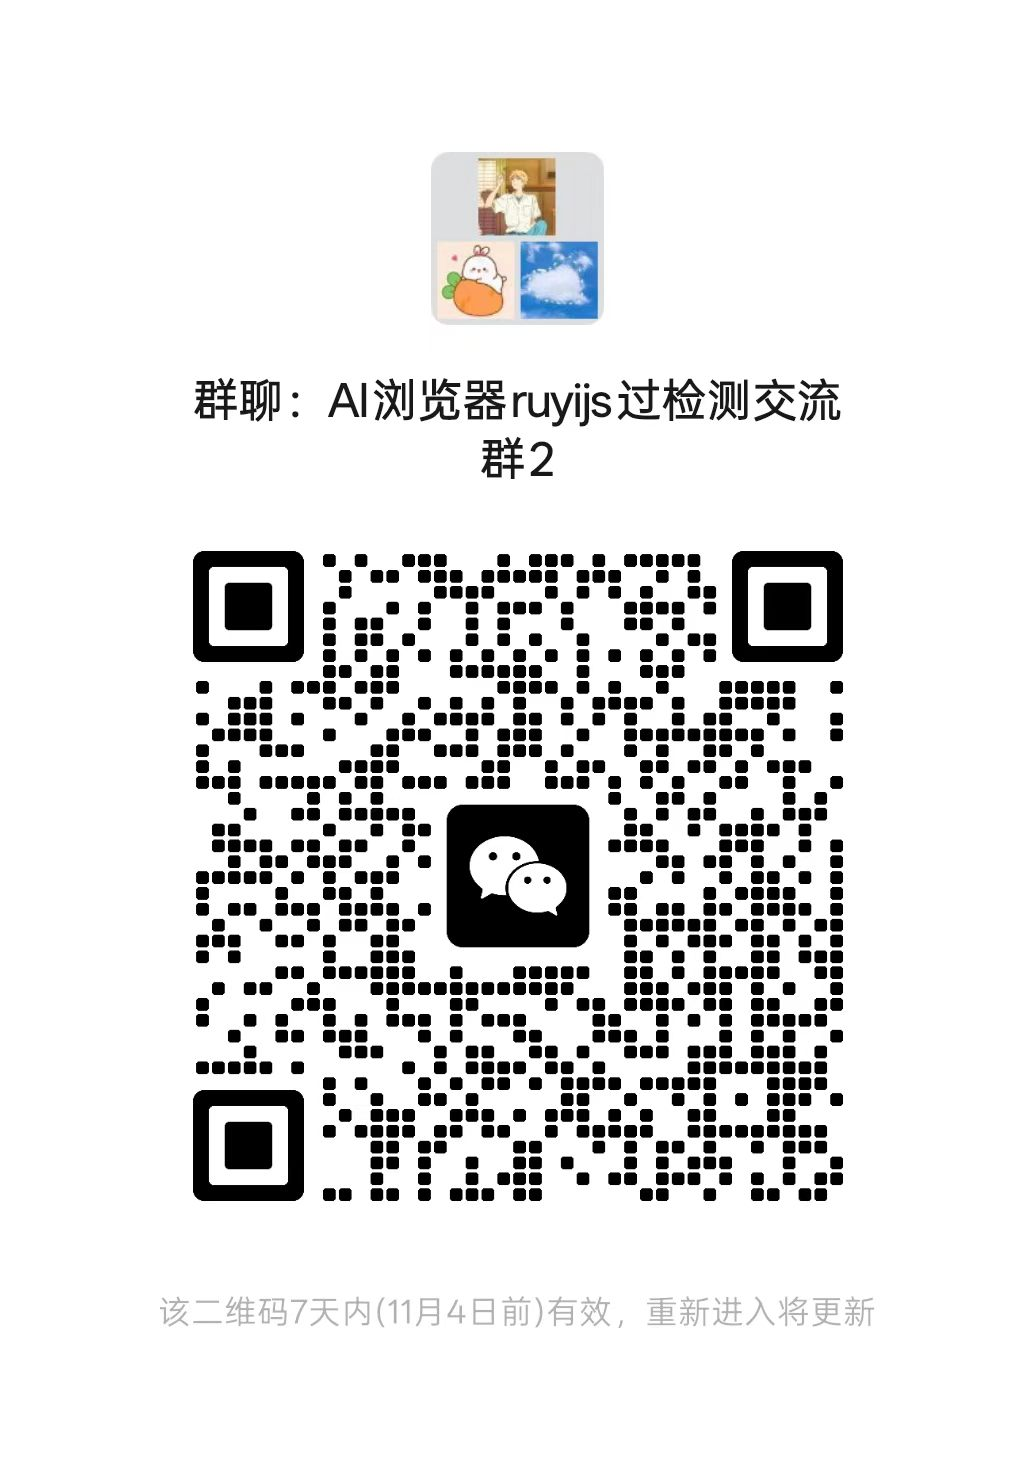
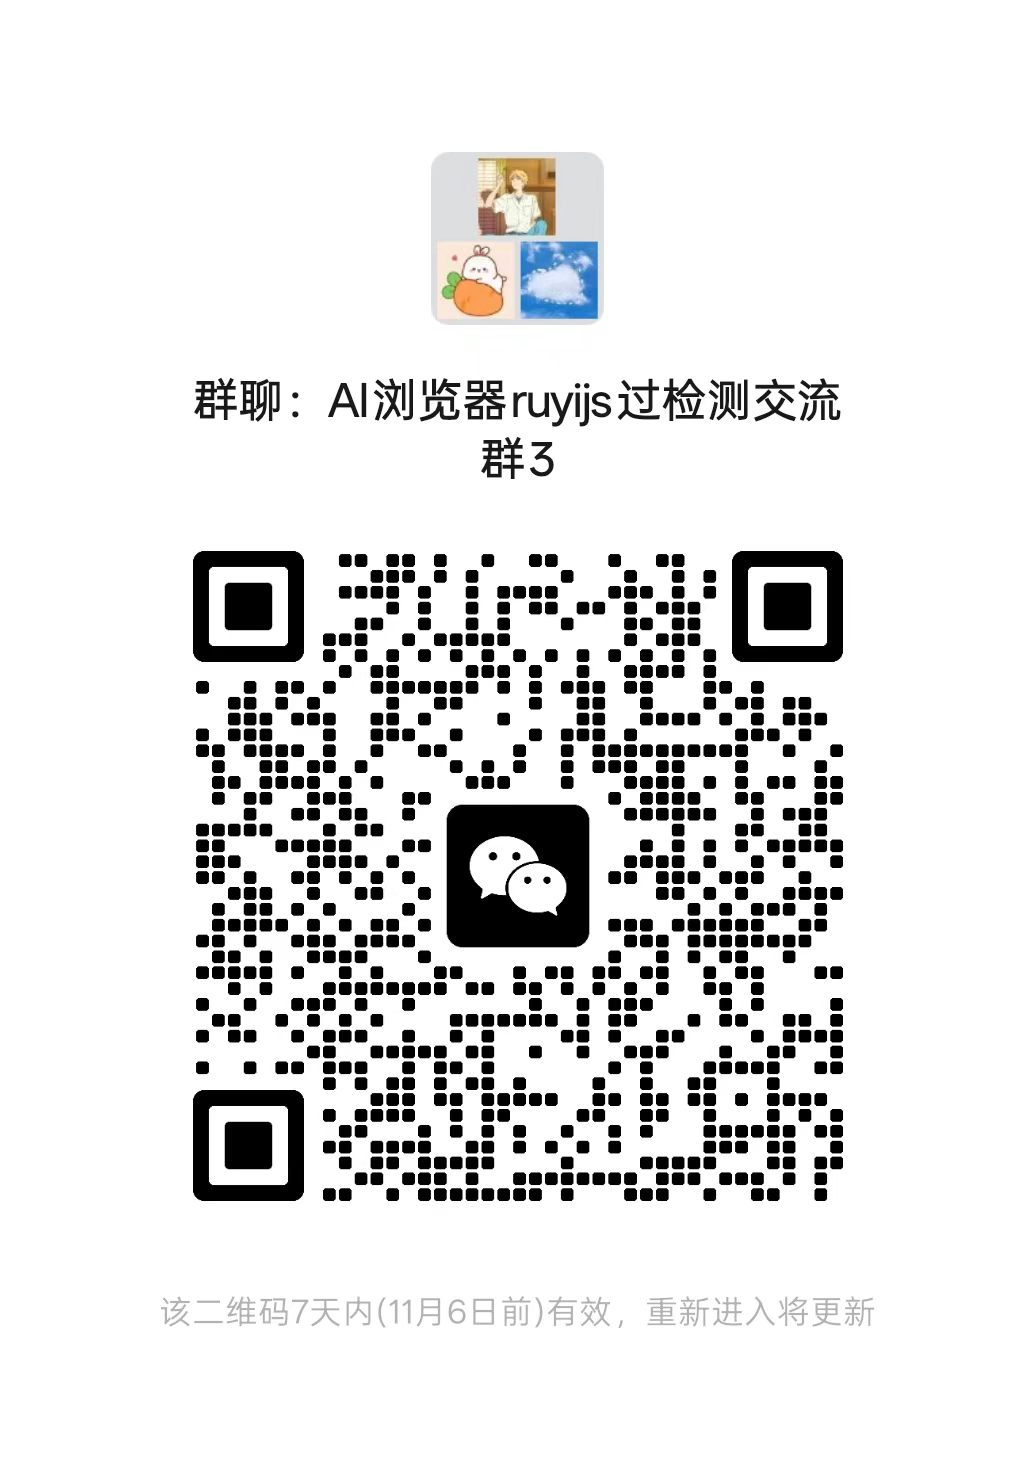
docs: update WeChat group QR (交流群3)

diff --git a/README.md b/README.md
@@ -305,7 +305,7 @@ Questions, permission requests, commercial licensing, or just to talk shop — a
 <table>
 <tr>
 <td align="center"><img src="assets/wechat-qr.jpg" alt="WeChat QR — 如意" width="220"><br><b>WeChat:</b> 如意</td>
-<td align="center"><img src="assets/wechat-group-qr.jpg" alt="Group — AI 浏览器交流群" width="220"><br><b>Group:</b> AI 浏览器交流群</td>
+<td align="center"><img src="assets/wechat-group-qr.jpg" alt="Group — AI浏览器ruyijs过检测交流群3" width="220"><br><b>Group:</b> AI浏览器ruyijs过检测交流群3</td>
 </tr>
 </table>
 

diff --git a/README.zh-CN.md b/README.zh-CN.md
@@ -305,7 +305,7 @@ python -m ruyijs.examples creepjs
 <table>
 <tr>
 <td align="center"><img src="assets/wechat-qr.jpg" alt="微信 — 如意" width="220"><br><b>微信：</b>如意</td>
-<td align="center"><img src="assets/wechat-group-qr.jpg" alt="交流群 — AI 浏览器过检测交流群" width="220"><br><b>交流群：</b>AI 浏览器过检测交流群</td>
+<td align="center"><img src="assets/wechat-group-qr.jpg" alt="交流群 — AI浏览器ruyijs过检测交流群3" width="220"><br><b>交流群：</b>AI浏览器ruyijs过检测交流群3</td>
 </tr>
 </table>
 
